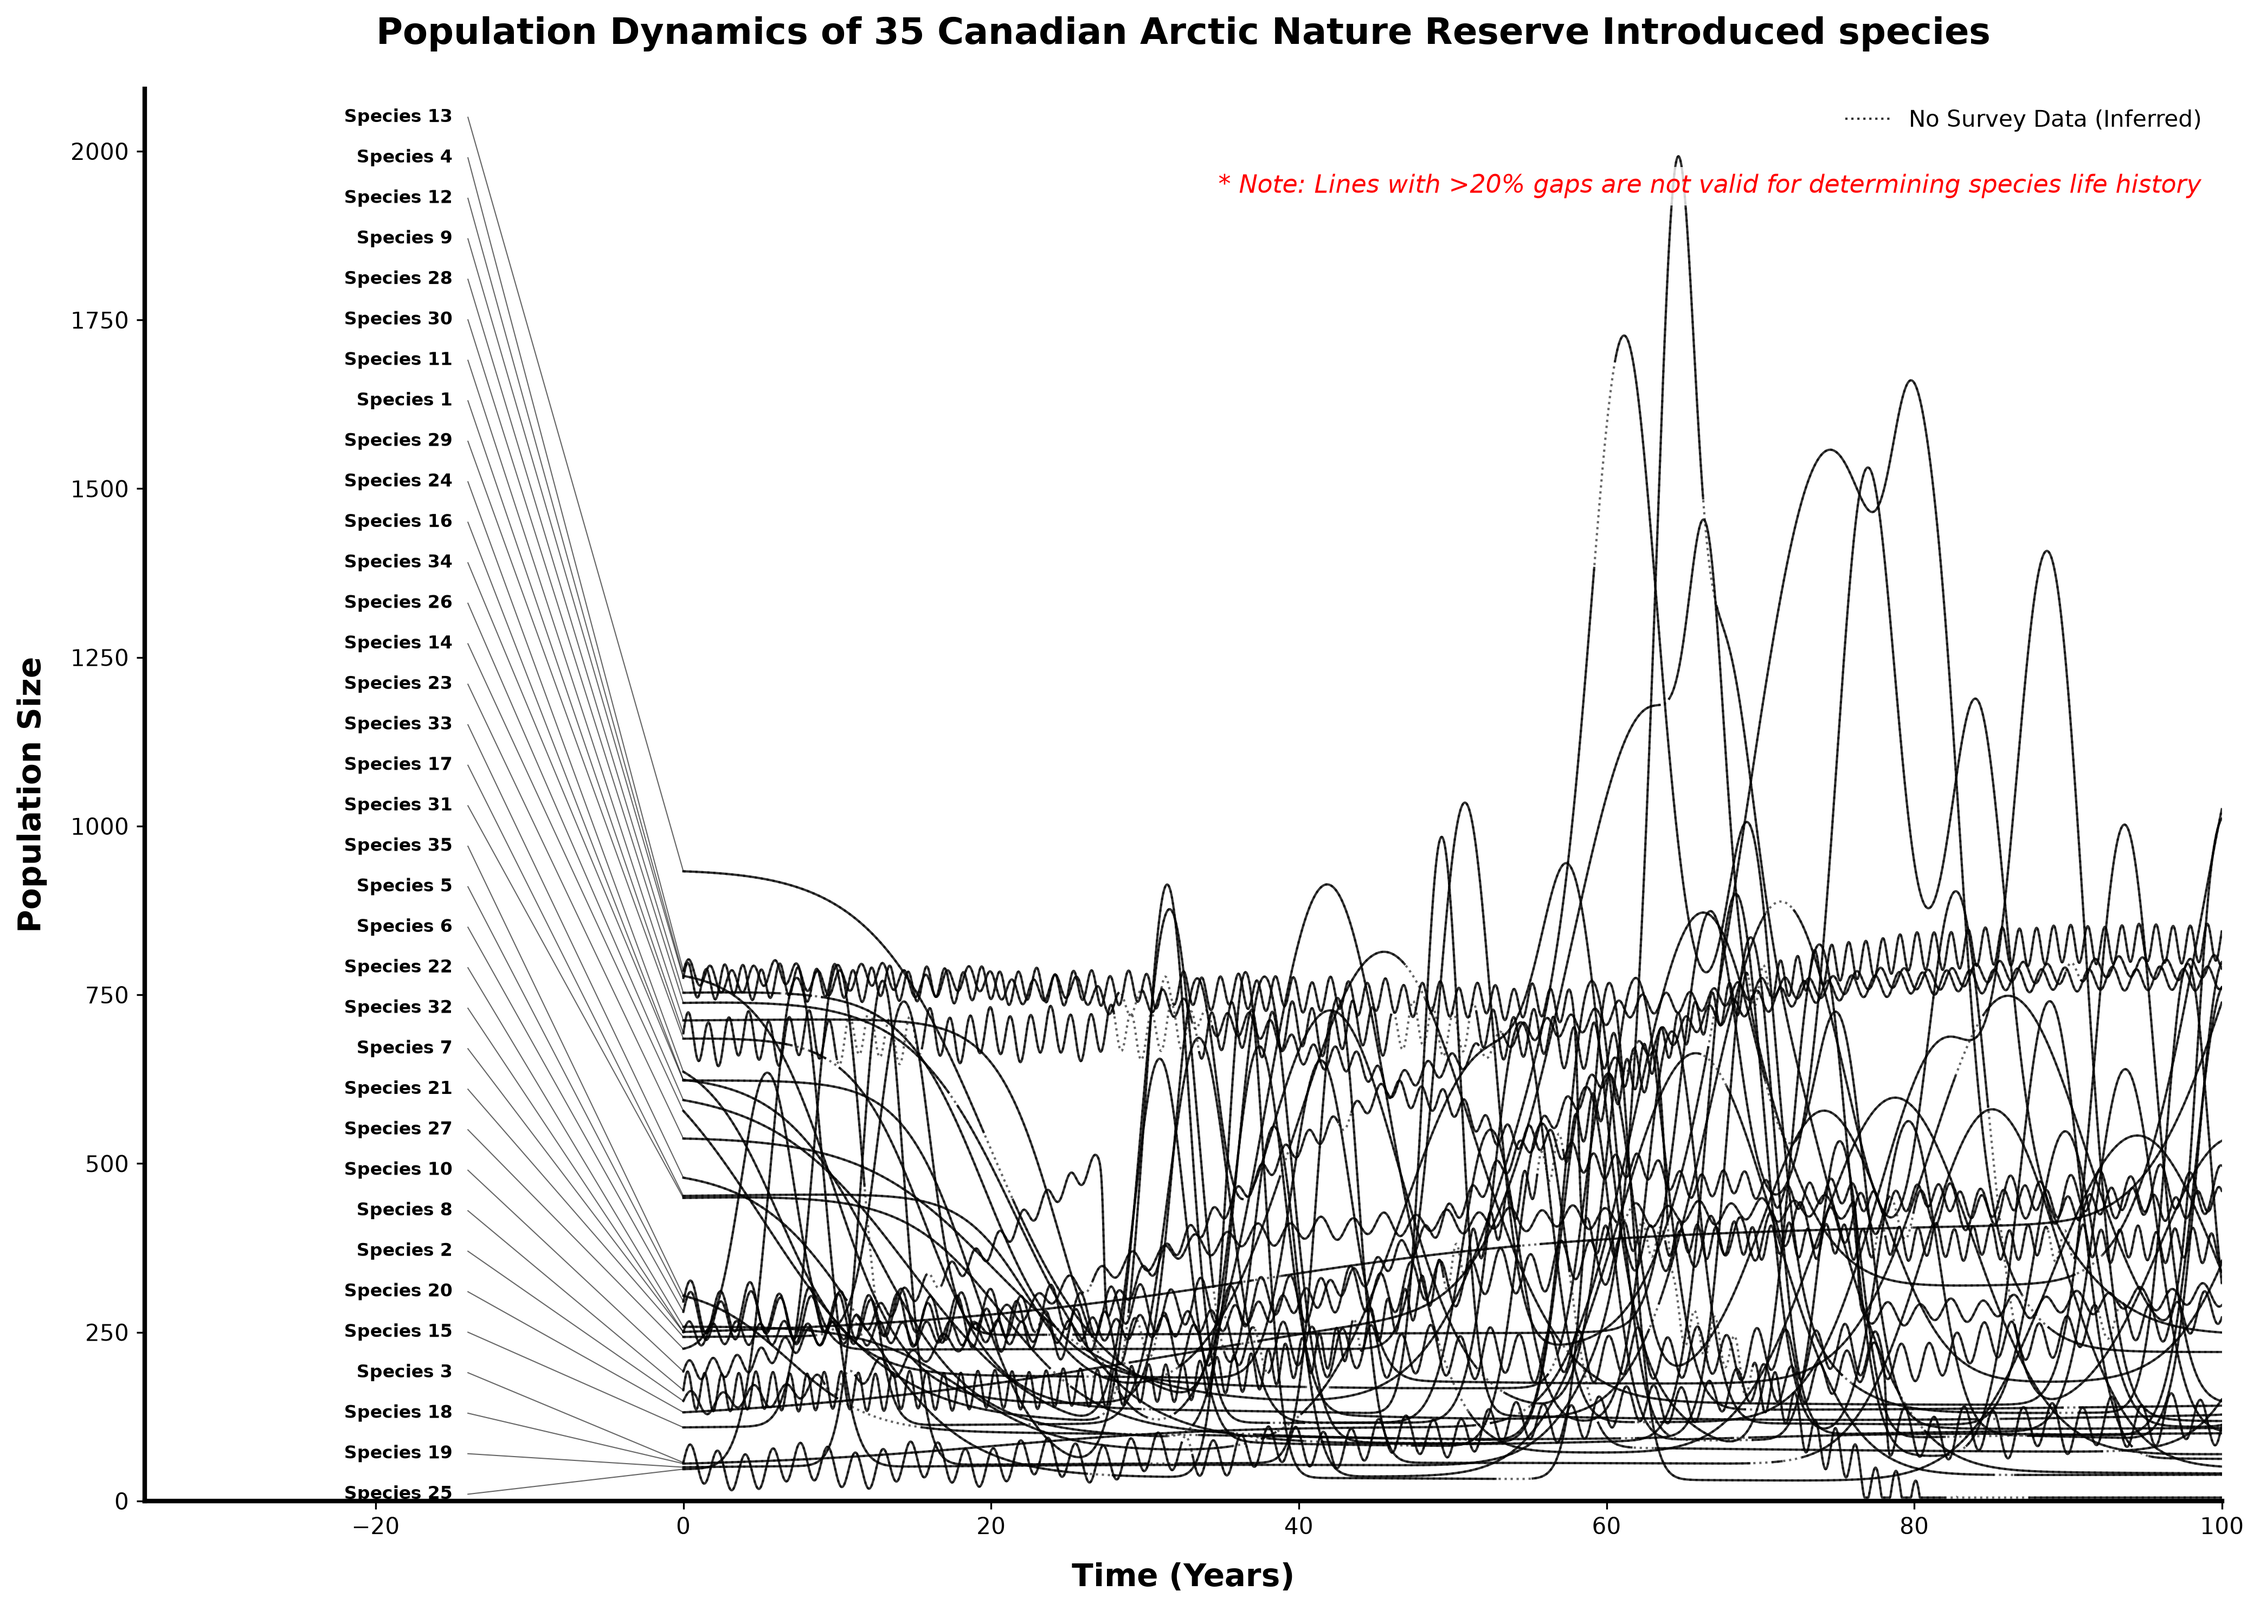
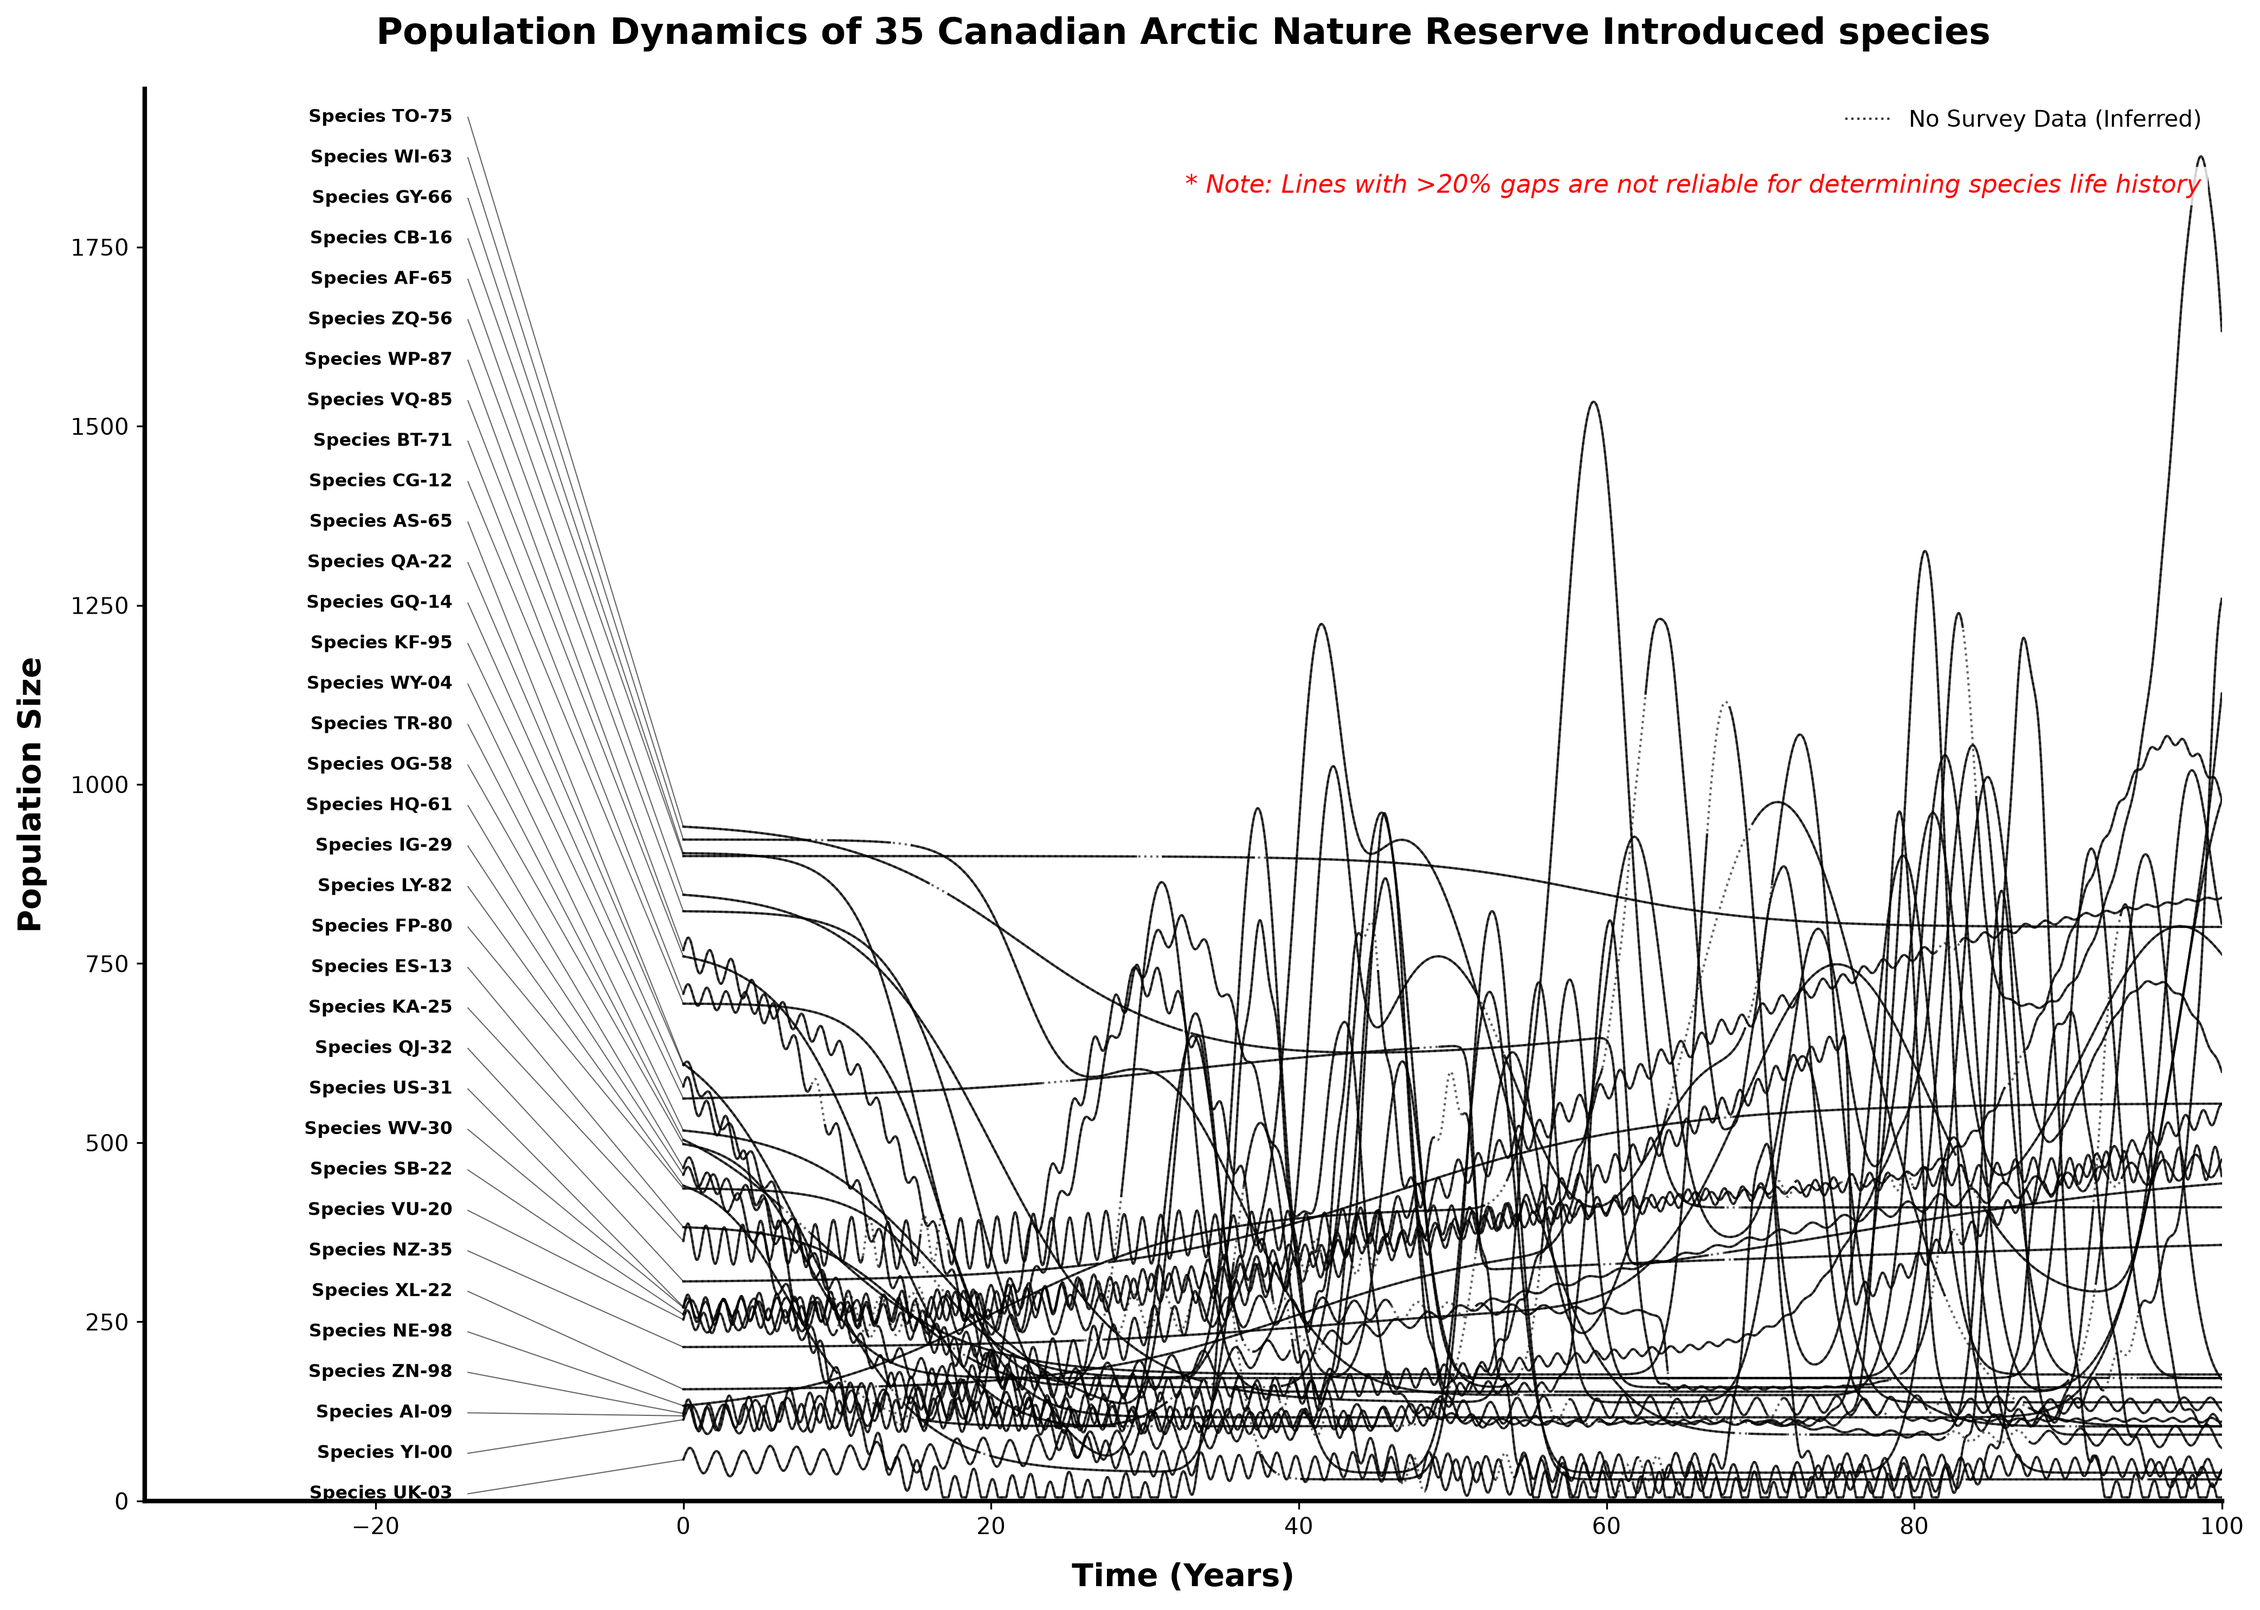
hardinging -- lost track let's say v10

diff --git a/generate-graph.py b/generate-graph.py
@@ -3,6 +3,7 @@ import matplotlib.pyplot as plt
 import matplotlib.lines as mlines
 import json
 import random
+import string
 import sys
 
 # Generate high-resolution time data
@@ -23,6 +24,14 @@ ground_truth = {
     "decoys_to_ignore": [],
     "classifications": {}
 }
+
+# Generate 35 unique random alphanumeric codes (e.g., "XK-42")
+unique_codes = set()
+while len(unique_codes) < 35:
+    code = "".join(random.choices(string.ascii_uppercase, k=2)) + "-" + "".join(random.choices(string.digits, k=2))
+    unique_codes.add(code)
+unique_codes = list(unique_codes)
+random.shuffle(unique_codes)
 
 # Guarantee unique, completely mixed starting values for all 35 species
 all_target_starts = random.sample(range(20, 950), 35)
@@ -53,12 +62,27 @@ def inject_missing_data(pop_array, time_array, is_decoy=False):
     return pop_array
 
 
+def add_shatter_jitter(pop_array, time_array):
+    """Applies high-frequency seasonal wobble with a dynamic, time-varying amplitude envelope."""
+    # Dynamic envelope: varies smoothly between ~0.0 and 1.0 over the decades
+    envelope = 0.5 + 0.3 * np.sin(time_array * np.random.uniform(0.02, 0.08)) + 0.2 * np.cos(
+        time_array * np.random.uniform(0.01, 0.05))
+
+    # Base wobble frequencies
+    wobble1 = np.random.uniform(15, 35) * np.sin(time_array * np.random.uniform(3.0, 6.0))
+    wobble2 = np.random.randint(2, 10) * np.cos(time_array * np.random.uniform(0.8, 2.0))
+
+    # Apply the envelope to the wobbles
+    pop_array += (wobble1 + wobble2) * envelope
+    return pop_array
+
+
 # ==========================================
 # POPULATION MATH (35 Species)
 # ==========================================
 
 for i in range(10):
-    name = f"Species {i + 1}"
+    name = f"Species {unique_codes[i]}"
     labels.append(name)
     ground_truth["classifications"][name] = "K-selected"
 
@@ -88,9 +112,9 @@ for i in range(10):
             recovery_rate = np.random.uniform(0.02, 0.08)
             pop += (crash_depth * np.random.uniform(0.3, 0.8)) / (1 + np.exp(-recovery_rate * (t - (crash_time + 15))))
 
-    # SHATTER Jitter
-    pop += np.random.uniform(15, 35) * np.sin(t * np.random.uniform(3.0, 6.0))
-    pop += np.random.randint(2, 10) * np.cos(t * np.random.uniform(0.8, 2.0))
+    # HETEROGENEOUS SHATTER Jitter: Only apply to 50% of K-selected
+    if random.random() > 0.5:
+        pop = add_shatter_jitter(pop, t)
 
     pop = np.clip(pop, 5, None)
 
@@ -99,7 +123,7 @@ for i in range(10):
     lines.append((pop_gaps, pop_full))
 
 for i in range(25):
-    name = f"Species {i + 11}"
+    name = f"Species {unique_codes[i + 10]}"
     labels.append(name)
     ground_truth["classifications"][name] = "r-selected"
 
@@ -138,7 +162,9 @@ for i in range(25):
             pop += early_height * np.exp(-((t - early_spike) ** 2) / early_width)
             spike_start = 30
 
-    pop += np.random.uniform(2, 8) * np.sin(t * np.random.uniform(0.01, 0.1))
+    # HETEROGENEOUS SHATTER Jitter: Only apply to 50% of r-selected
+    if random.random() > 0.5:
+        pop = add_shatter_jitter(pop, t)
 
     # Add the exponential spikes
     num_spikes = np.random.randint(2, 6)
@@ -212,7 +238,7 @@ no_data_line = mlines.Line2D([], [], color='black', linewidth=1.0, linestyle=':'
                              label='No Survey Data (Inferred)')
 legend = ax.legend(handles=[no_data_line], loc='upper right', fontsize=10, frameon=False)
 
-ax.text(0.99, 0.94, "* Note: Lines with >20% gaps are not valid for determining species life history",
+ax.text(0.99, 0.94, "* Note: Lines with >20% gaps are not reliable for determining species life history",
         transform=ax.transAxes, ha='right', va='top', fontsize=11,
         color='red', fontstyle='italic', bbox=dict(facecolor='white', alpha=0.8, edgecolor='none', pad=3))
 
